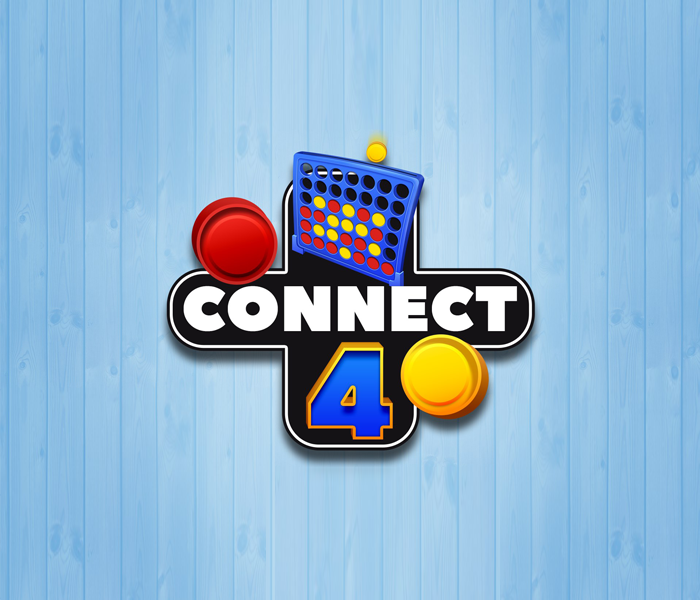
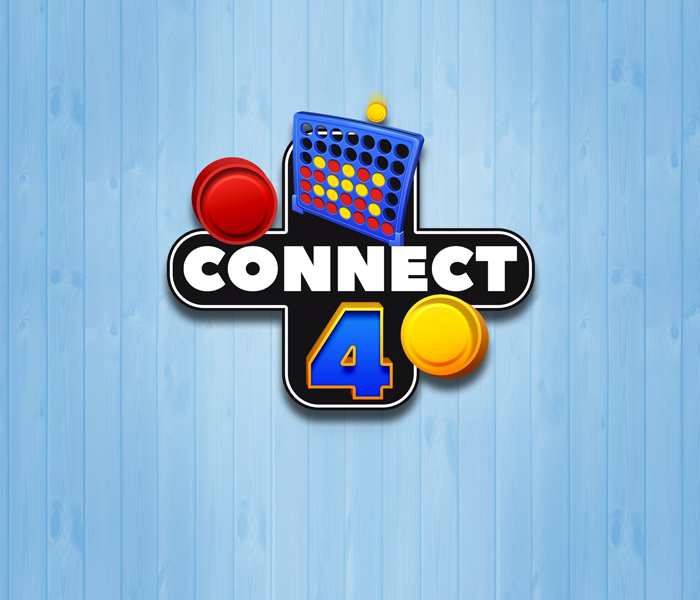
feat: add some images for buttons, title picture, adjust css

Changed region(s): [[0.21, 0.15, 0.78, 0.78], [0.06, 0.9, 0.09, 0.93]]

diff --git a/js/app.js b/js/app.js
@@ -8,6 +8,11 @@ let board = []; // feel like i need this for the global variable below
 const rows = 6;
 const columns = 7;
 
+//main title image
+const mainImg = document.createElement("img");
+mainImg.src = "./images/mainpic.png";
+mainImg.id = "title-img";
+
 //TODO: Set up CPU?
 
 //Functions & Dom Manip
@@ -26,6 +31,7 @@ function firstLoad() {
 
     const gameDisplayDiv = document.createElement("div");
     gameDisplayDiv.id = "game-display";
+    gameDisplayDiv.style.marginTop = "20px";
 
     //main menu background image
     const img = document.createElement("img");
@@ -47,7 +53,7 @@ function firstLoad() {
     instructionsBtn.addEventListener("click", instructions);
 
     gameDisplayDiv.append(img, startBtn, instructionsBtn);
-    displayContainer.append(gameDisplayDiv);
+    displayContainer.append(mainImg, gameDisplayDiv);
     document.body.append(displayContainer);
 }
 //initial display when page is loaded. Selection screen
@@ -85,7 +91,9 @@ function makeBoard() {
 function drawBoard() {
     const boardDisplay = document.getElementById("game-display");
     boardDisplay.innerHTML = ""; // clear current HTML in game-display div
-    boardDisplay.style.marginTop = "150px";
+    boardDisplay.style.marginTop = "204px";
+    boardDisplay.append(mainImg);
+
     gameOver = false; //set this here as well so it resets when New Game is pressed during the game or after someone has won
 
     //iterate through board to create cells, same loop as previous
@@ -113,14 +121,20 @@ function drawBoard() {
         const homeBtn = document.createElement("div");
         homeBtn.className = "btn";
         homeBtn.id = "home";
-        homeBtn.textContent = "Main Menu"; // delete later, going to use an image/image of text
         homeBtn.addEventListener("click", mainMenu);
+        const mainMenuBtnImg = document.createElement("img");
+        mainMenuBtnImg.id = "main-menu-btn-img";
+        mainMenuBtnImg.src = "./images/mainmenubutton.png"
+        homeBtn.append(mainMenuBtnImg);
 
         const newGameBtn = document.createElement("div");
         newGameBtn.className = "btn";
         newGameBtn.id = "new-game";
-        newGameBtn.textContent = "New Game"; // delete later, going to use an image/image of text
         newGameBtn.addEventListener("click", clearBoard);
+        const newGameBtnImg = document.createElement("img");
+        newGameBtnImg.id = "new-game-btn-img";
+        newGameBtnImg.src = "./images/newgamebutton.png";
+        newGameBtn.append(newGameBtnImg);
 
         //button container
         const buttonContainer = document.createElement("div");
@@ -390,7 +404,8 @@ function displayWinner() {
     //TODO: figure out why this keeps displaying after new game or main menu button press, it should reset gameOver to false so this doesn't come up again.
     if (gameOver === true) {
         console.log(gameOver); //i don't think it's gameOver, seems to be how the board is storing cells
-        if (currentPlayer === 2) { //re-reading this confuses me because this should be 1, but switching it makes it show when yellow whens instead.
+        if (currentPlayer === 2) {
+            //re-reading this confuses me because this should be 1, but switching it makes it show when yellow whens instead.
             currentPlayer = "Red";
             document.getElementById("game-display").style.cursor =
                 "url('./images/gameoverred.png'), auto";

diff --git a/css/style.css b/css/style.css
@@ -1,5 +1,10 @@
 body {
-    background-color: black;
+    background: radial-gradient(
+        circle,
+        rgba(65, 65, 255, 1) 0%,
+        rgba(65, 65, 255, 1) 25%,
+        rgba(2, 0, 36, 1) 97%
+    );
 }
 
 h3 {
@@ -19,7 +24,7 @@ p {
     height: 575px;
     width: 700px;
     background-color: rgb(65, 65, 255);
-    border: 5px solid rgb(14, 14, 180);
+    border: 5px solid rgb(8, 8, 102);
 }
 
 #start:hover,
@@ -36,7 +41,7 @@ p {
     display: flex;
     width: 350px;
     height: 40px;
-    top: 80%;
+    top: 76%;
     left: 25%;
     justify-content: center;
     align-items: center;
@@ -44,7 +49,7 @@ p {
 }
 
 #instructions-btn {
-    top: 88%;
+    top: 85%;
 }
 
 #instructions-home-btn {
@@ -98,6 +103,20 @@ p {
     width: 700px;
 }
 
+#title-img {
+    position: relative;
+    margin: 0 auto;
+    margin-top: -200px;
+    margin-bottom: 20px;
+    height: 150px;
+    animation: floatImage 7s ease infinite;
+}
+
+#main-menu-btn-img,
+#new-game-btn-img {
+    padding: 5px 0px 2px 0px;
+}
+
 .display-container {
     display: flex;
     flex-direction: column;
@@ -114,15 +133,27 @@ p {
     height: 80px;
     width: 80px;
     margin: 5px;
-    background-color: #f5f5f5;
+    background-color: hsl(240, 100%, 95%);
     border-radius: 50%;
-    border: 5px solid rgb(14, 14, 180);
+    border: 5px solid rgb(8, 8, 102);
 }
 
 .red-cell,
 .yellow-cell {
     height: 80px;
     width: 80px;
+}
+
+@keyframes floatImage {
+    0% {
+        transform: translateY(0);
+    }
+    50% {
+        transform: translateY(10px);
+    }
+    100% {
+        transform: translateY(0);
+    }
 }
 
 @media (max-width: 750px) {
